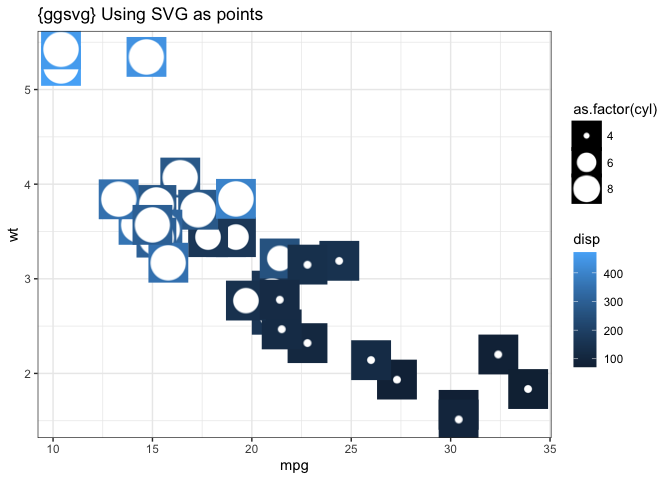
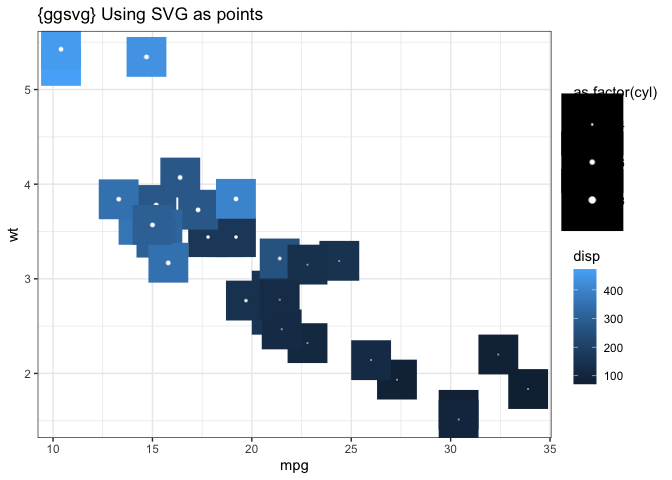
v0.1.7 unify preferred naming for novel aesthetics

diff --git a/README.md b/README.md
@@ -41,6 +41,31 @@ to convert SVG into an R raster object.
 remotes::install_github('coolbutuseless/ggsvg')
 ```
 
+## Note on non-standard aesthetics
+
+The `ggplot2` packages knows about a certain set of aesthetics: alpha,
+colour, fill, linetype, shape, size etc. And it knows how to find
+appropriate default *scales* for each of these aesthetics in order to
+convert, say, numeric values in a data.frame into colours for points.
+
+In `ggsvg` novel aesthetics are being created during plot creation in
+order to colour/style the SVG. Since `ggplot2` won’t know how to find an
+appropriate default scale to go with these aesthetics, the user may name
+things carefully in order to trigger some automatic detection within the
+ggsvg package.
+
+1.  Name aesthetics to be of the form `[blah]_[type]` with an underscore
+    -   e.g. “circle_radius”, “rect_colour”, “cat_fill”
+2.  Apply a general default scale for these specially named aesthetics
+    by adding `scale_svg_default()` to the plot.
+3.  To get a *good* plot, you’ll probably still need to add specific
+    scales to carefully control the value mapping
+    e.g. `scale_svg_fill_brewer(aesthetics = "rect_fill")`
+
+If you ever encounter a target type (or CSS property) that isn’t handled
+automatically (such that you *have* to use a specific `scale_svg_*()`
+function), then please file an issue on Github.
+
 # Using an existing SVG
 
 In the simplest case where the user just wants to use an SVG as a
@@ -133,6 +158,8 @@ p <- ggplot(mtcars) +
   theme_bw() + 
   scale_svg_default() +
   scale_svg_size_continuous(aesthetics = css("rect", "stroke-width"), range = c(5, 50))
+#> target_type unknown: width
+#> target_type unknown: height
 
 p
 ```
@@ -194,15 +221,15 @@ braces i.e. `{{}}`
 parameterised_text <- '
   <svg viewBox="0 0 100 100 ">
     <rect width="100" height="100" fill="{{rect_colour}}" />
-    <circle cx="50" cy="50" r="{{radius}}" fill="white" />
+    <circle cx="50" cy="50" r="{{circle_radius}}" fill="white" />
   </svg>
   '
 
 #~~~~~~~~~~~~~~~~~~~~~~~~~~~~~~~~~~~~~~~~~~~~~~~~~~~~~~~~~~~~~~~~~~~~~~~~~~
 # Test the glue parameters
 #~~~~~~~~~~~~~~~~~~~~~~~~~~~~~~~~~~~~~~~~~~~~~~~~~~~~~~~~~~~~~~~~~~~~~~~~~~
-rect_colour <- 'green'
-radius      <- 10
+rect_colour   <- 'green'
+circle_radius <- 10
 
 final_text <- glue::glue(parameterised_text, .open = "{{", .close = "}}")
 
@@ -218,21 +245,23 @@ grid::grid.draw(grob)
 ``` r
 ggplot(mtcars) +
   geom_point_svg(
-    mapping  = aes(mpg, wt, radius=as.factor(cyl), rect_colour = disp),
+    mapping  = aes(mpg, wt, circle_radius=as.factor(cyl), rect_colour = disp),
     svg      = parameterised_text,
     size     = 10,
-    defaults = list(rect_colour = 'black', radius = 40)
+    defaults = list(rect_colour = 'black', circle_radius = 40)
   ) +
   theme_bw() + 
   labs(title = "{ggsvg} Using SVG as points") + 
+  scale_svg_default() +
   scale_svg_size_discrete(
     aesthetics = 'radius', 
     range = c(10, 45),
     guide = guide_legend(override.aes = list(size = 7))
-  ) + 
-  scale_svg_colour_continuous(
-    aesthetics = 'rect_colour'
-  )
+  ) 
+#> target_type unknown: width
+#> target_type unknown: height
+#> Warning: Using size for a discrete variable is not advised.
+
 #> Warning: Using size for a discrete variable is not advised.
 ```
 

diff --git a/NEWS.md b/NEWS.md
@@ -1,4 +1,11 @@
 
+
+# ggsvg 0.1.7 2022-04-21
+
+* Unify the preferred naming for glue-parameterised SVG with naming required for
+  CSS aesthetics.   i.e.  `[blah]_[type]`.  This is so ggsvg can make better guesses on 
+  the default scale for any novel aesthetic.
+
 # ggsvg 0.1.6 2022-04-21
 
 * Wrapping CSS aesthetics a little with a `css()` helper
